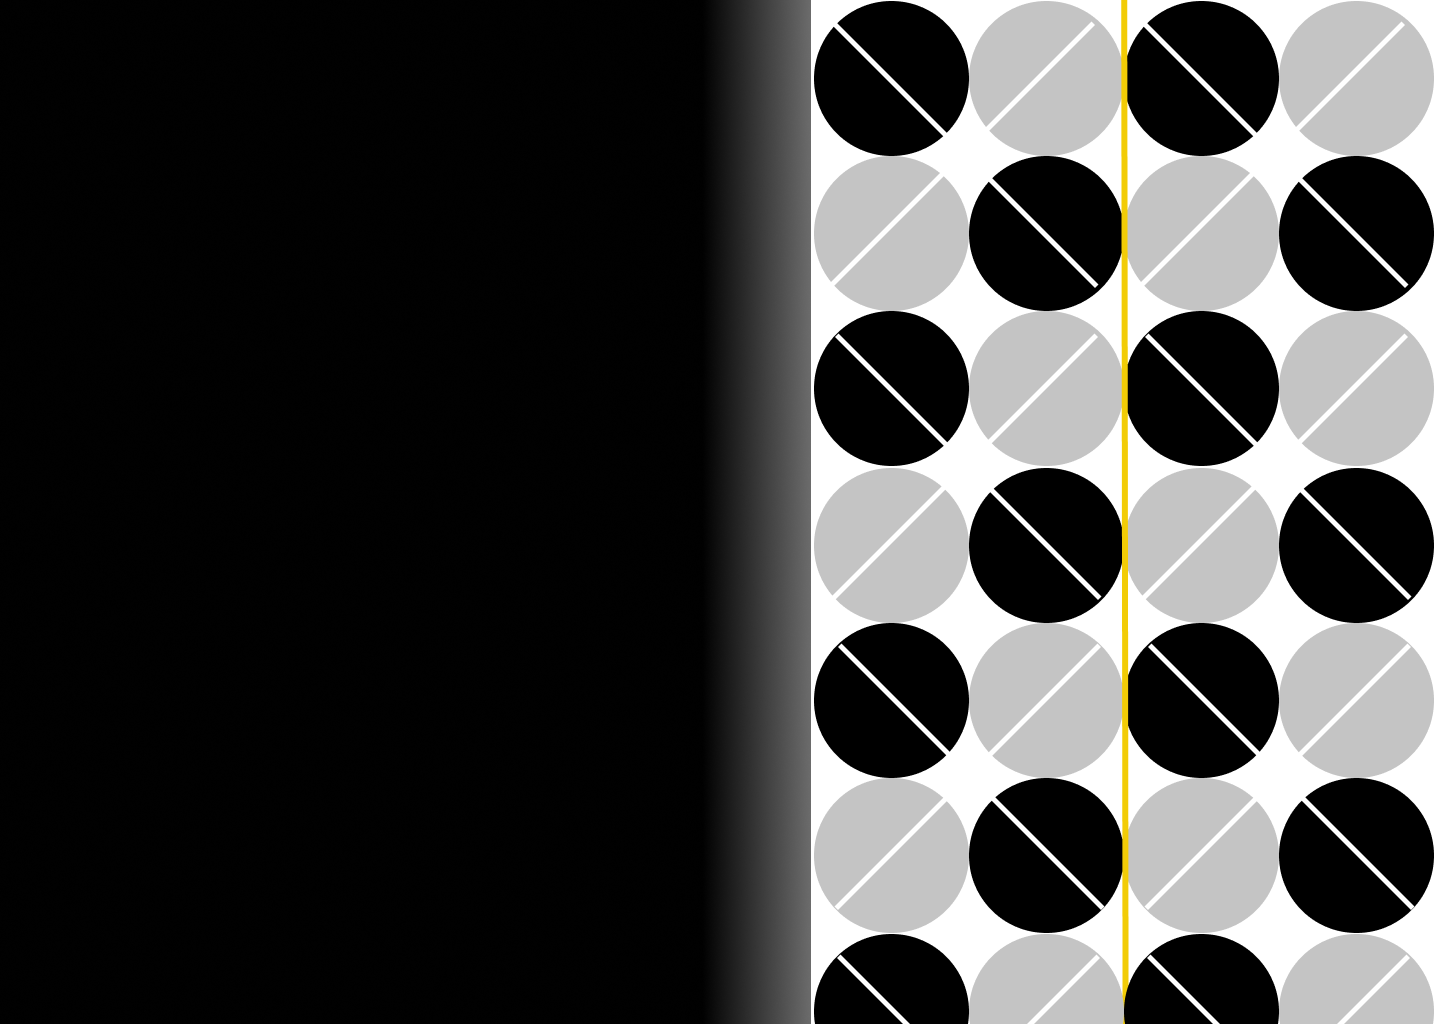
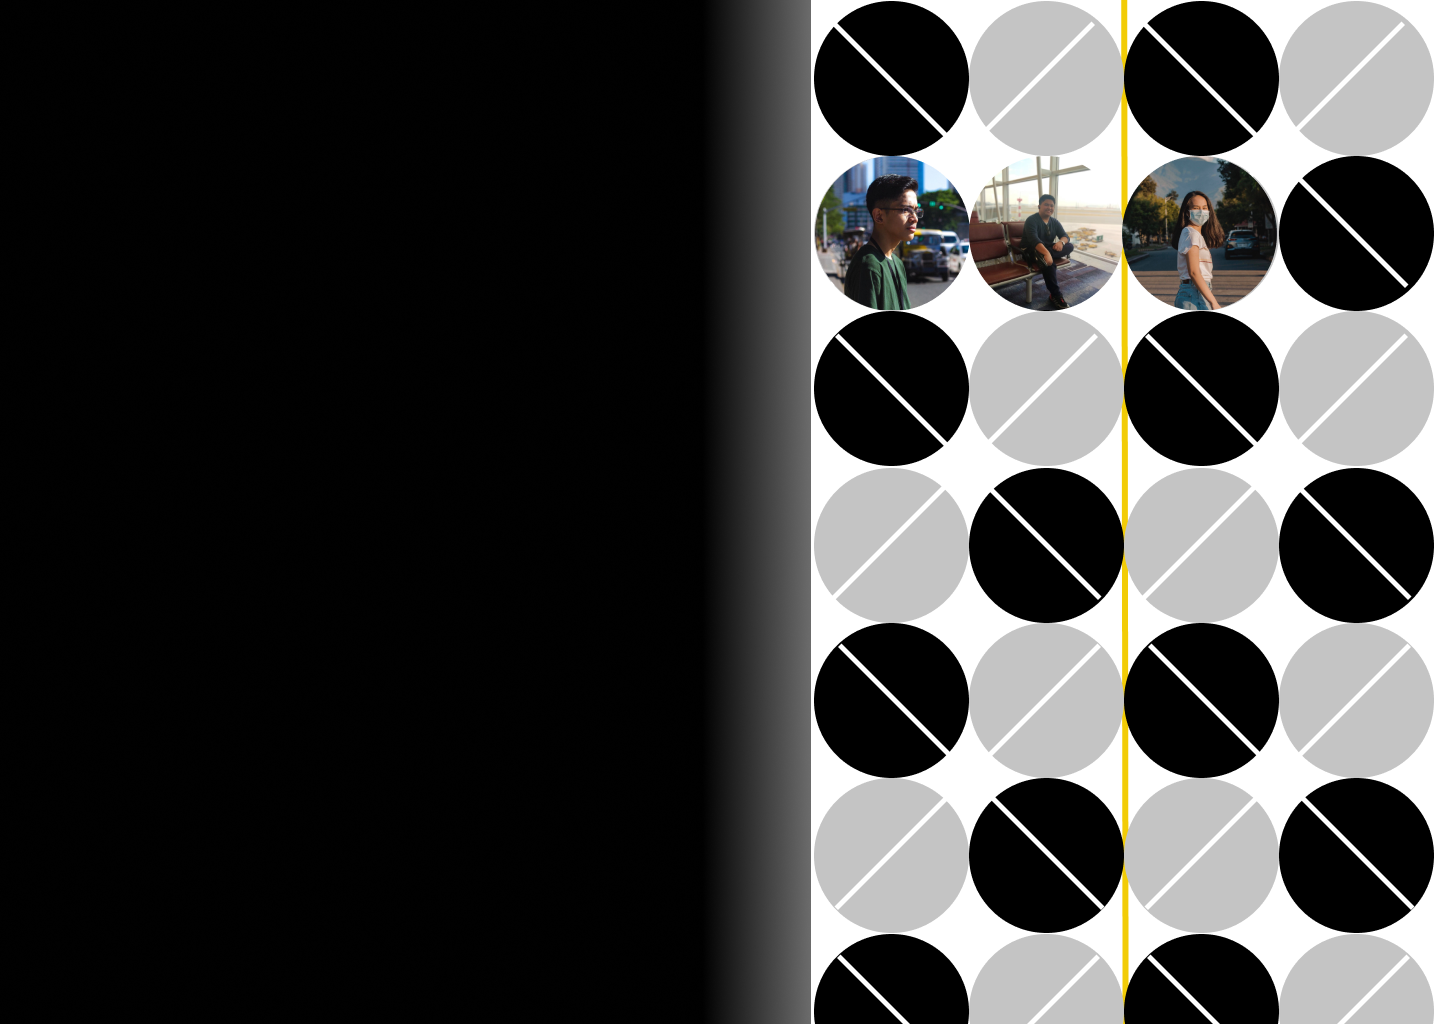
section headers 2 created

Changed region(s): [[0.5625, 0.1562, 0.9062, 0.3125]]

diff --git a/public/js/home.js b/public/js/home.js
@@ -1,18 +1,27 @@
 $( document ).ready(function()
 {
 
-    
     function typeIt(text) {
         var bounds = new Typed('#bounds', {
-            strings:["Territories, Boundaries, and Rights."],
+            strings:["On Territories, Boundaries, and Rights."],
             backSpeed: 65,
             typeSpeed: 55
         });
     }
+
     $("#create1").click(function()
     {
         window.location.href = "/create1";
     });
+    try{
+        var typed = new Typed('#fincred1', {
+            strings:["Creative Output 1."],
+            backSpeed: 65,
+            typeSpeed: 55
+        });
+    } catch {
+        console.log("");
+    }
     try{
         var typed = new Typed('#pls', {
             strings:["Hi! Welcome to GEWORLD-G1's website.", "We'll be posting all of our group's output here. This is in partial fulfilment for our course.", "Head on over to creative outputs and we hope you enjoy!"],

diff --git a/public/css/styles.css b/public/css/styles.css
@@ -170,7 +170,24 @@ display: block;
     background-image: url('../images/content-5.png');
     background-repeat: no-repeat;
 }
+.content-6{
+    background-image: url('../images/content-6.png');
+    background-repeat: no-repeat;
+}
+.content-7{
+    background-image: url('../images/content-7.png');
+    background-repeat: no-repeat;
+}
+.content-8{
+    background-image: url('../images/content-8.png');
+    background-repeat: no-repeat;
+}
+.content-9{
+    background-image: url('../images/content-9.png');
+    background-repeat: no-repeat;
+}
 
+/*ACCOMPANYING CONTENT*/
 .p-less{
     font-size: 1.80vw;
 }
@@ -179,4 +196,16 @@ display: block;
 }
 .p-more{
     font-size: 1.40vw;
+}
+
+/*REFERENCES*/
+.bgREF1{
+    color: black;
+}
+
+
+.bgREF2{
+    background-color: black;
+    color: white;
+    border-radius: 7.5px;
 }
